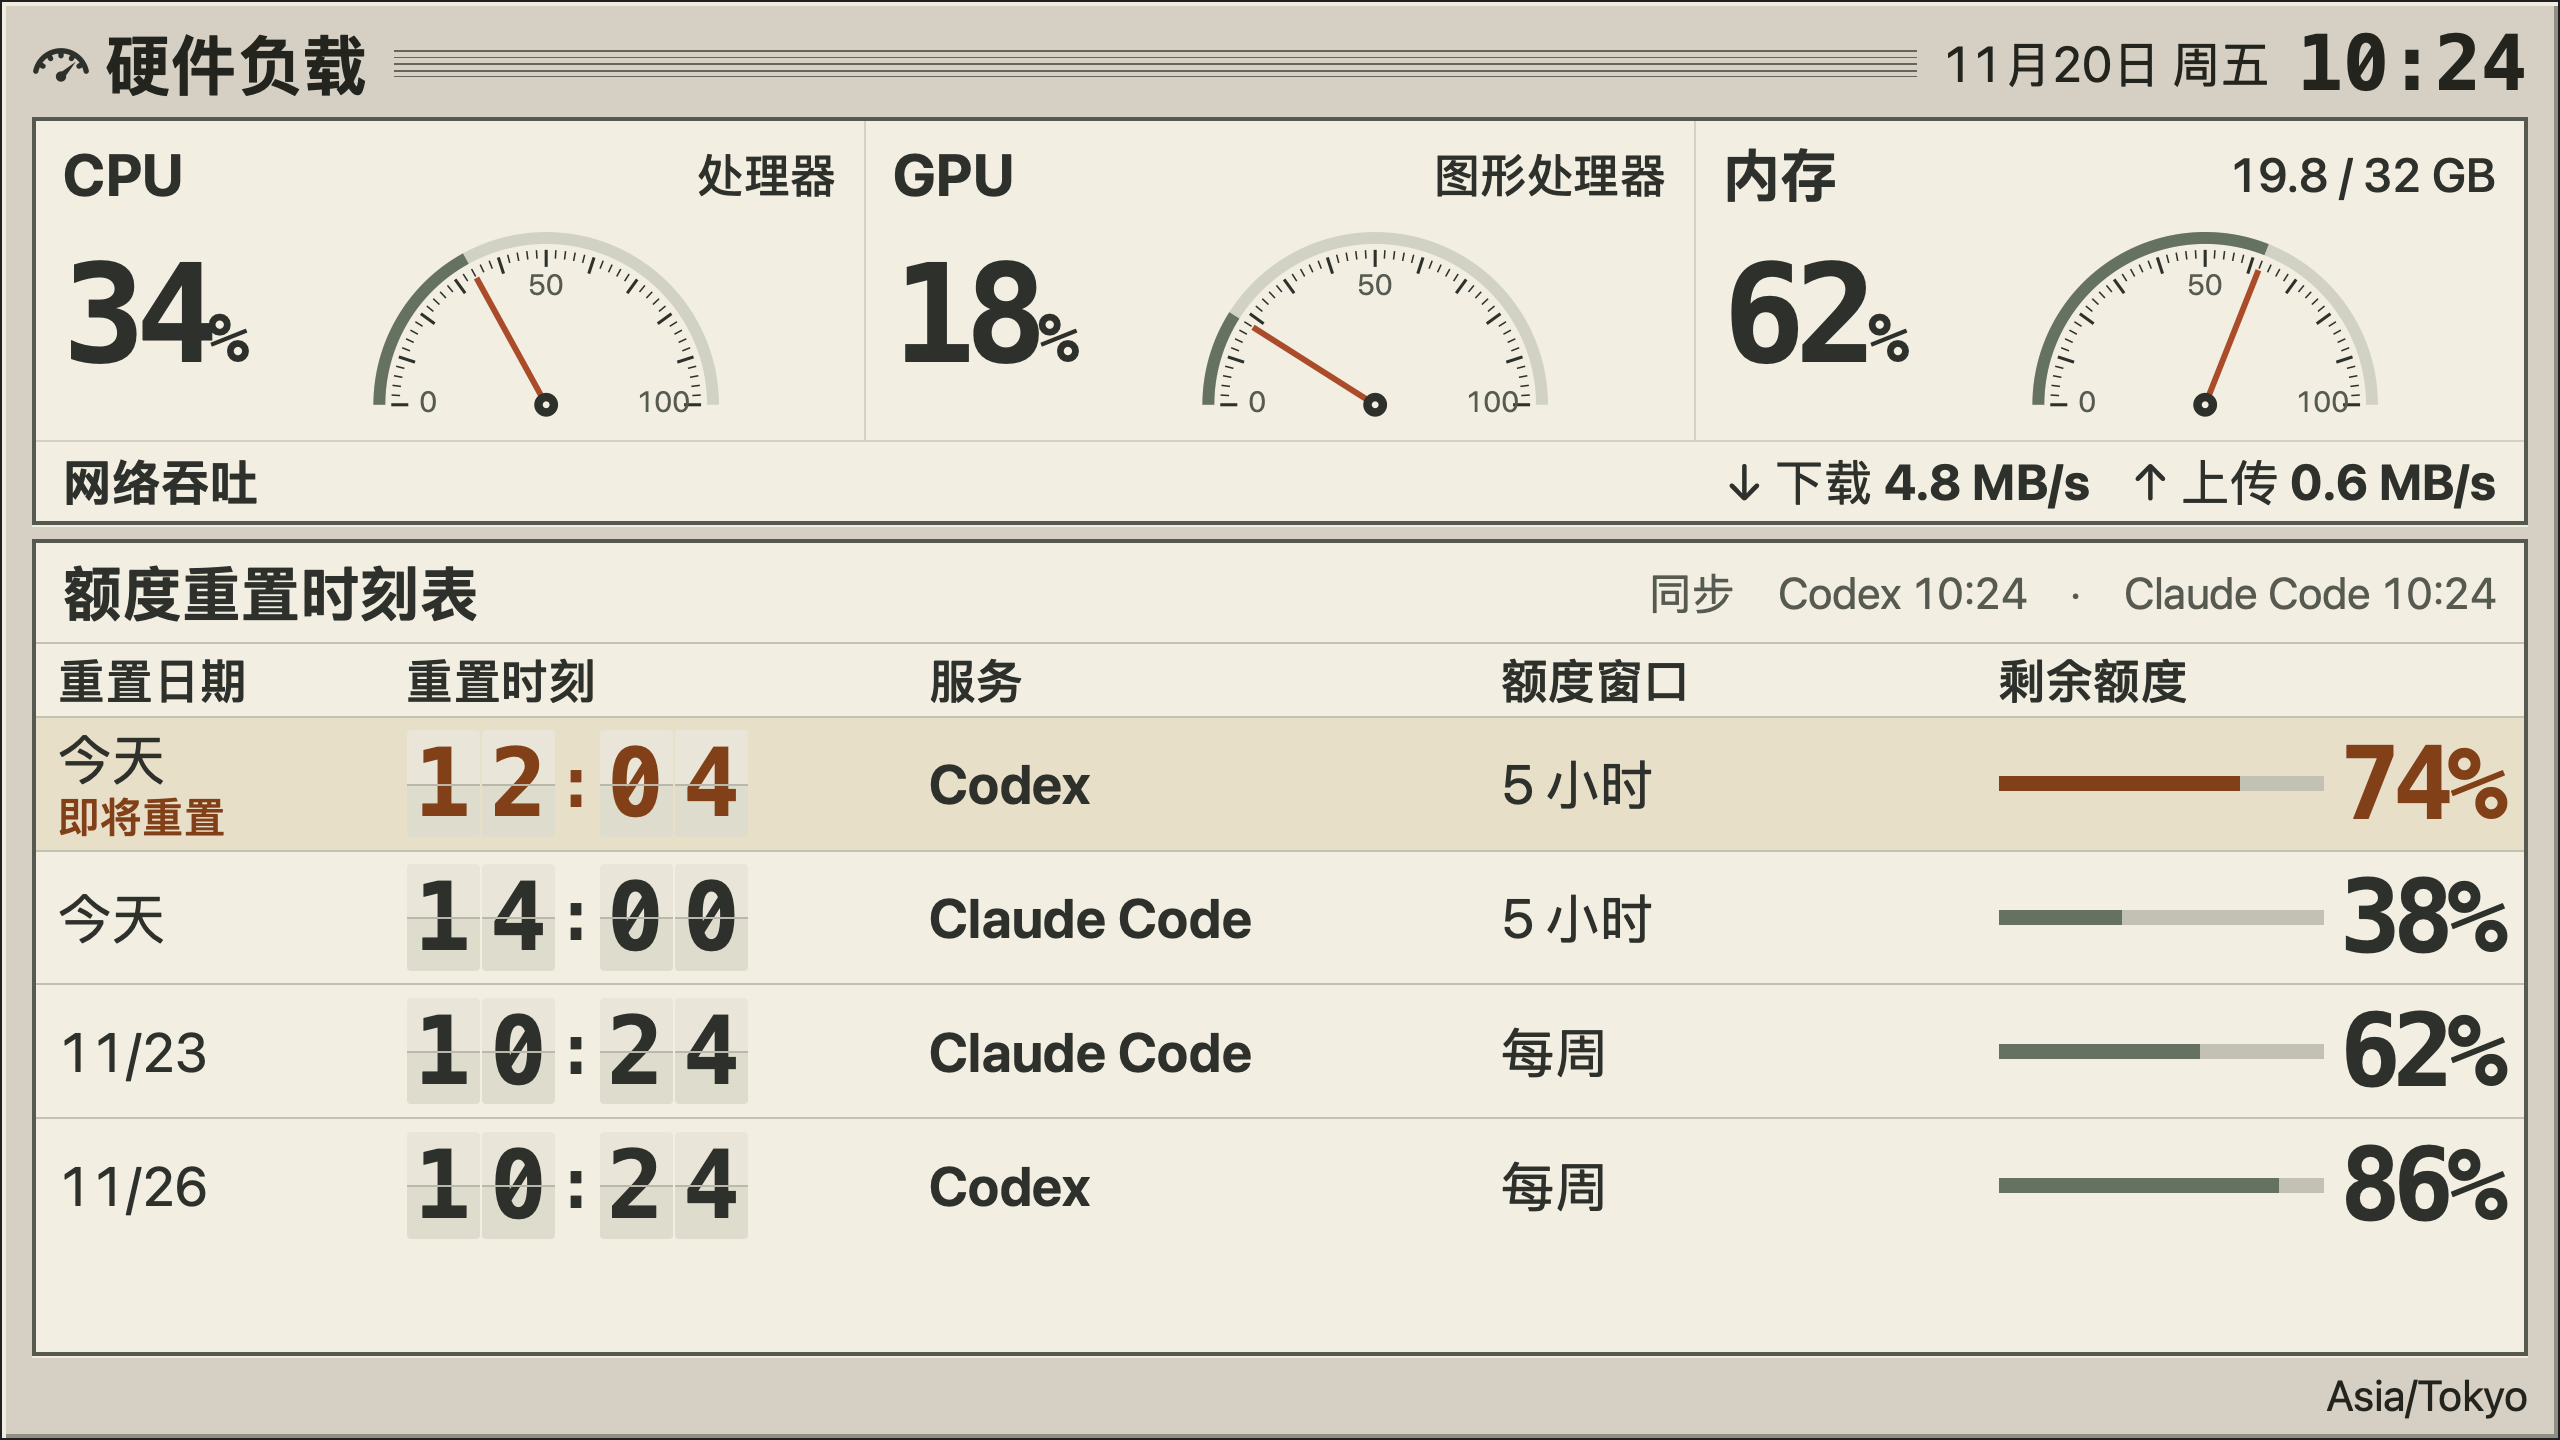
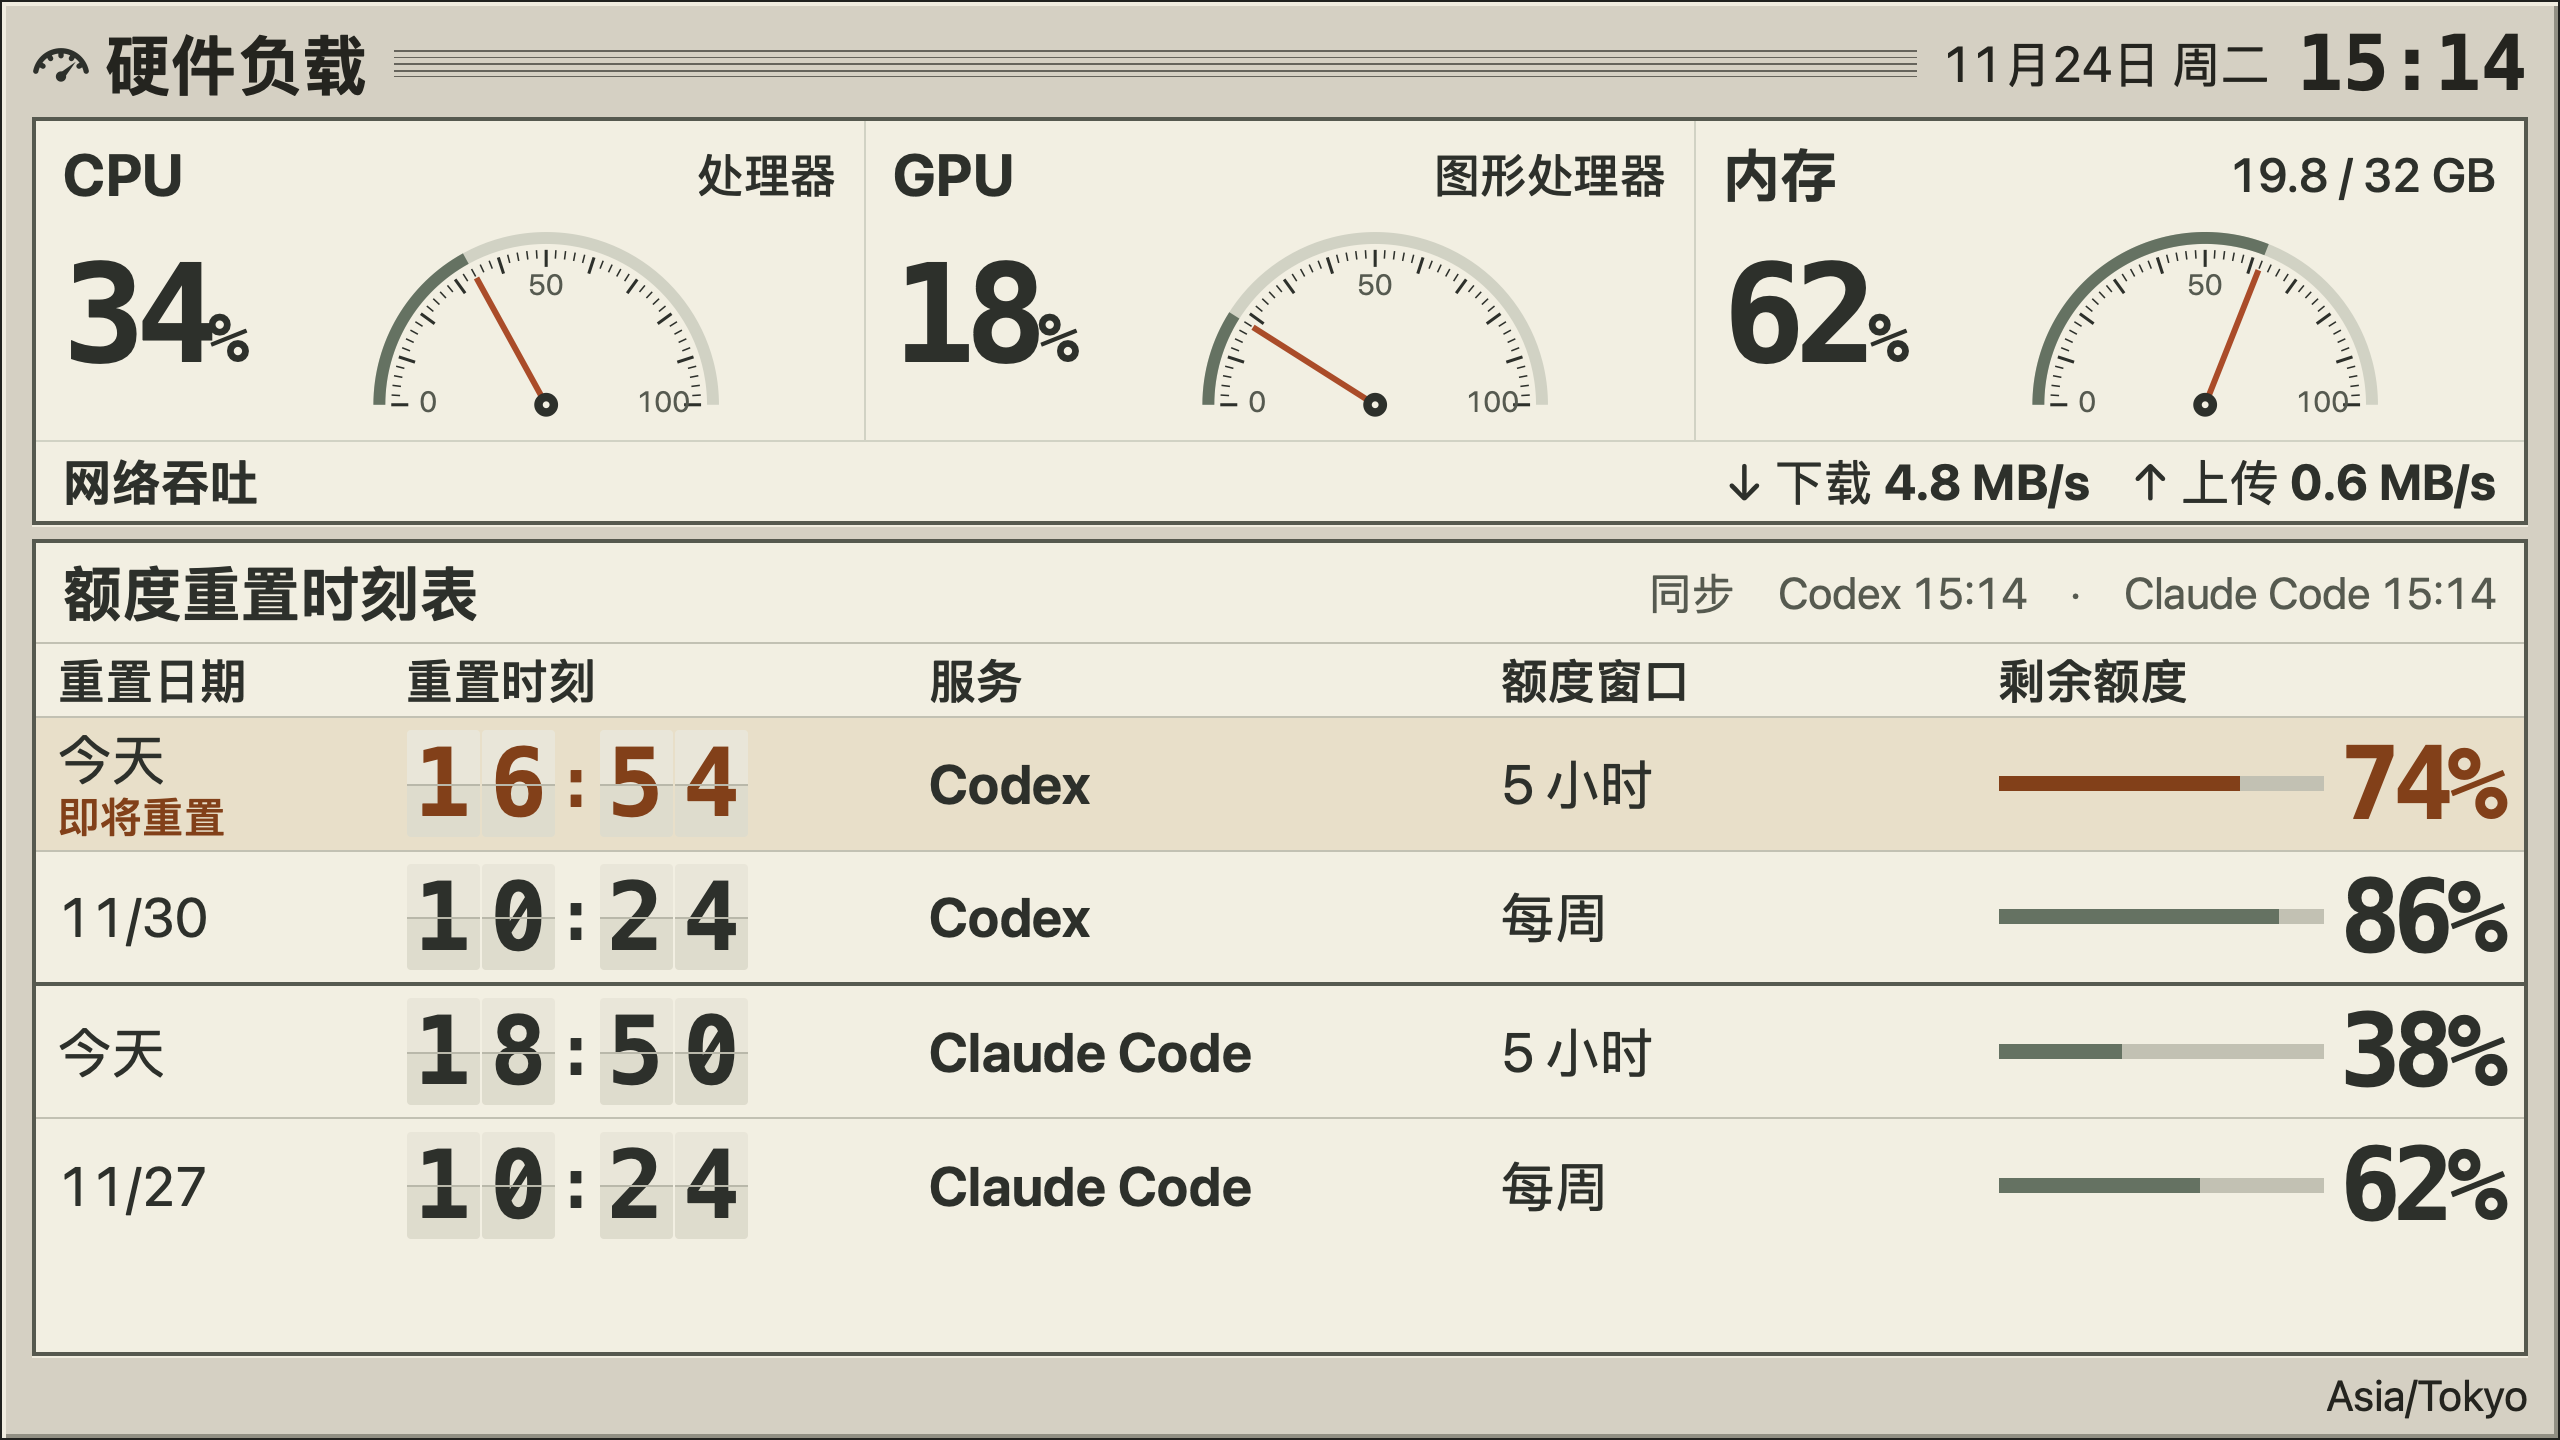
发布 v1.0.2，额度按服务分段并更新效果图

diff --git a/README.md b/README.md
@@ -6,12 +6,12 @@
 
 <picture>
   <source media="(prefers-color-scheme: dark)" srcset="docs/images/dashboard-dark.png">
-  <img src="docs/images/dashboard-classic.png" alt="经典 Macintosh 副屏仪表盘。上方是三个指针表盘和网络吞吐量，下方按重置时间列出 Codex 与 Claude Code 的剩余额度。">
+  <img src="docs/images/dashboard-classic.png" alt="经典 Macintosh 副屏仪表盘。上方是三个指针表盘和网络吞吐量，下方分两段列出 Codex 与 Claude Code 的剩余额度，段内按重置时间排序。">
 </picture>
 
 [查看浅色原图](docs/images/dashboard-classic.png) · [查看深色原图](docs/images/dashboard-dark.png)
 
-效果图由应用的副屏页面渲染，采用 16∶9、特大字号和 0% 留白。图中使用示例数据，琥珀色行标出下一次重置。
+效果图由应用的副屏页面渲染，采用 16∶9、特大字号和 0% 留白。图中使用示例数据，琥珀色行标出下一次重置，粗线分隔两个服务。
 
 ## 安装与首次使用
 
